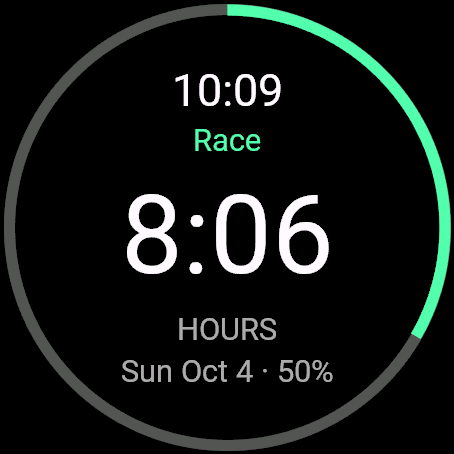
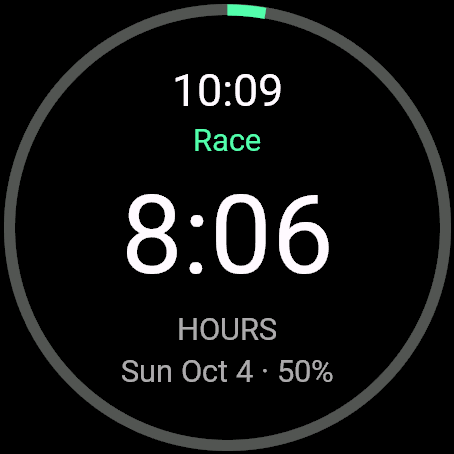
fix(DaysToGo): one ring scale, full only on the day
The ring was full at exactly 365 days, and a Pro timed event's ring
restarted near full when its last 24 hours began (share of 24 h after
the 5% of one day). Cap at 95% until the day; the last 24 hours use
the days' square-root scale. Pro listing shots and hero recaptured.

ROADMAP 13.1 (owner pick b).

Claude-Session: https://claude.ai/code/session_01VBnXC1zGyaFSzHFynsMi4H

Changed region(s): [[0.5859, 0.0, 1.0, 0.7401]]

diff --git a/DaysToGo/DESIGN.md b/DaysToGo/DESIGN.md
@@ -47,11 +47,11 @@ components:
 
 ## Direction
 
-**One number.** Black ground. The day count is the largest thing on the screen, white, in the largest system numeric font that fits the height left over. A thin ring around the bezel drains clockwise from the top as the date approaches (square root of the share of the next 365 days still to go, so the last days stay visible) and is full, in the accent, on the day. More than a year out it is the grey track only. As built it is also full at exactly 365 days (the square root of 365/365), and a Pro timed event restarts it near full when its last 24 hours begin (the hours state is the share of 24 hours, so 1 day at 5% jumps to about 100%); whether to change either is the owner's call (ROADMAP 13.1). State is never colour alone: the words TODAY, HOURS, DAYS SINCE carry it.
+**One number.** Black ground. The day count is the largest thing on the screen, white, in the largest system numeric font that fits the height left over. A thin ring around the bezel drains clockwise from the top as the date approaches (square root of the share of the next 365 days still to go, so the last days stay visible) and is full, in the accent, on the day. It stops at 95% (an 18 degree gap) until then, and more than a year out it is the grey track only, so a full accent ring can only mean the day itself. A Pro timed event's last 24 hours stay on the same scale (5% at 24 hours, a sliver at the end), so the ring never restarts (owner, 2026-10-05, ROADMAP 13.1). State is never colour alone: the words TODAY, HOURS, DAYS SINCE carry it.
 
 ## Timed events, to the minute (Pro, ADR-018)
 
-A Pro event with a time (Time of day, Minute) and, optionally, an Event time zone changes **no row, font or colour**. The last 24 hours before the event's instant still read as the hero `H:MM` over the caption HOURS (for example `7:51`, rounded up to the minute so it never says `0:00` while time is left; `24:00` at most, which is the widest string and was already in the screen-fit states), with the ring as the share of those 24 hours. What the zone moves is only **when** that state starts and **when** TODAY arrives; the day count before it is whole local calendar days and flips at the watch's own midnight, so the same event shows the same number of days on any wrist. On an Instinct the hero is the same text in white on black, beside the window as before. There is no zone label on the face: the zone is a setting, never a row (one number, nothing more).
+A Pro event with a time (Time of day, Minute) and, optionally, an Event time zone changes **no row, font or colour**. The last 24 hours before the event's instant still read as the hero `H:MM` over the caption HOURS (for example `7:51`, rounded up to the minute so it never says `0:00` while time is left; `24:00` at most, which is the widest string and was already in the screen-fit states), with the ring on the same square-root scale as the days (5% at 24 hours down to a sliver; ROADMAP 13.1). What the zone moves is only **when** that state starts and **when** TODAY arrives; the day count before it is whole local calendar days and flips at the watch's own midnight, so the same event shows the same number of days on any wrist. On an Instinct the hero is the same text in white on black, beside the window as before. There is no zone label on the face: the zone is a setting, never a row (one number, nothing more).
 
 ## Rows, top to bottom
 

diff --git a/ROADMAP.md b/ROADMAP.md
@@ -21,7 +21,7 @@ Do not keep open checkboxes anywhere else. Status 2026-10-05.
 - [x] 1.4 `[you]` DayArc: confirm the names "DayArc" / "DayArc Pro" after a store search and a trademark search. **Decided 2026-10-04:** "DayArc" and "DayArc Pro" confirmed.
 - [x] 1.18 `[you]` DayArc on the Instinct 3 Solar: the Pro morning and midday are the same picture as Simple (deliberate, ADR-017, because the label is kept over a second grid row). Keep, or give Pro something more there? Also the new 0.12 stroke weight and the one-row Pro grid on the Instinct are judgement calls (ADR-017 says how to revert each): say if you want either reverted after you see them. **Decided 2026-10-04: keep as built** (DayArc ADR-017).
 - [ ] 8.2 `[you]` (later) Approve a direction for a bolder Days To Go; then implement (8.1).
-- [ ] 13.1 `[you]` Days To Go ring scale (design critique 2026-10-05; Pro and Free). Two jumps as built: a full accent ring at exactly 365 days, empty at 366; and in Pro a timed event's ring goes from 5% (1 day) to about full when its last 24 hours start, then drains again. Options: (a) keep; (b) cap below full until the day and use one continuous scale in the last 24 h (about 1 h of code; the Pro listing shots with `8:06` show the 24 h ring and would need redoing, 10.5); (c) cap at 365 only (about 30 min). Agent recommends (b) together with 13.2.
+- [x] 13.1 `[you]` Days To Go ring scale (design critique 2026-10-05; Pro and Free). Two jumps as built: a full accent ring at exactly 365 days, empty at 366; and in Pro a timed event's ring goes from 5% (1 day) to about full when its last 24 hours start, then drains again. Options: (a) keep; (b) cap below full until the day and use one continuous scale in the last 24 h (about 1 h of code; the Pro listing shots with `8:06` show the 24 h ring and would need redoing, 10.5); (c) cap at 365 only (about 30 min). Agent recommends (b) together with 13.2. **Decided 2026-10-05: (b), built** (cap 95%, one scale; tests pass in the simulator; Pro listing shots 1, 3, 4, 5 and the hero recaptured). Ships with the next Days To Go upload of both; the new Pro images go up with it (10.5).
 - [ ] 13.2 `[you]` Days To Go Pro: the hours state `8:06 HOURS` reads as a second clock under the time (store hero shows `14:21 HOURS`). Option: `8h 06m`, no HOURS caption, inside DaysToGo ADR-018 (to the minute). Mockup first; about 2 h plus fit tests and new listing shots.
 - [ ] 13.3 `[you]` Days To Go: the bottom date is the event's date but reads as today's. Option: a prefix (`→ Nov 18` or a word like "on"). About 1 h; a word needs 15 languages (translations are yours).
 - [ ] 13.4 `[you]` Days To Go Pro: footer `50%` / `6.4K` has no icon, so it reads as nothing. Option: a small battery or steps glyph from primitives. About 2 h; a look change.

diff --git a/DaysToGo/CLAUDE.md b/DaysToGo/CLAUDE.md
@@ -55,6 +55,6 @@ Same as HeroFace ([`../HeroFace/CLAUDE.md`](../HeroFace/CLAUDE.md)), which this 
 - New layout or string → run the screen-fit test for each screen size and update `docs/compatibility.md`.
 - User-facing claims live in the listing and `../site/src/apps/days-to-go/`; change both together, never change a published URL.
 - Every store publication gets a `CHANGELOG.md` entry and a What's New block in `listing/paste.md`.
-- Test count appears in `README.md` and here: **Pro 66, Free 55** on round and rectangular products (50 shared + 15 Pro-only / + 4 Free-only, + the Instinct layout test), **Pro 64, Free 53** on an Instinct (the colour-only accent tests drop, a mono one joins), simulator tests PASSED 2026-10-04 (fr965, fr255s, epix2, venusq2, fr55, fenix5s, instincte40mm, instinct3solar45mm, instinct2, instinct2s; no wrist); update both.
+- Test count appears in `README.md` and here: **Pro 67, Free 56** on round and rectangular products (51 shared + 15 Pro-only / + 4 Free-only, + the Instinct layout test), **Pro 65, Free 54** on an Instinct (the colour-only accent tests drop, a mono one joins), simulator tests PASSED 2026-10-04 (2026-10-05: fr965 both jungles and instincte40mm Pro after the ring fix, ROADMAP 13.1) (fr965, fr255s, epix2, venusq2, fr55, fenix5s, instincte40mm, instinct3solar45mm, instinct2, instinct2s; no wrist); update both.
 - **Instinct family (ADR-015, accepted 2026-10-04; 7 products, 1-bit, a round window top right):** `DaysToGoPalette` is two classes, `(:color)` and `(:mono)`, chosen by the jungles (`base.excludeAnnotations = <tier>;mono`, and per Instinct product `<product>.excludeAnnotations = <tier>;color` — a per-product line **replaces** the base list, so restate the tier's own). The Accent setting is its own file (`resources-accent-<tier>/settings/accent.xml`, from `tools/gen_settings.py`) and the Instinct `resourcePath` leaves that folder out. The visible area is a circle about 98 px in radius (`DaysToGoLayout.VISIBLE_RADIUS_PX`), not the whole square: **screenshot the simulator for every layout change** (`docs/development.md` "Screenshots").
 - A new language: its line in **both** manifests and **both** jungles; its folder must not define `AppName` (`python3 tools/check_strings.py`).

diff --git a/DaysToGo/docs/spec.md b/DaysToGo/docs/spec.md
@@ -83,8 +83,8 @@ The owner chose paid ($1.99) on 2026-09-26. The research adds a risk the owner s
 
 | State | When | Hero | Caption | Ring |
 |---|---|---|---|---|
-| Upcoming | days > 0 | the day count, or whole weeks | DAY / DAYS / WEEKS (+ "+ n DAYS" in weeks mode) | square root of the share of the next 365 days still to go (1 day = 5% of the ring, 30 days = 29%); more than 365 days away: grey track only; exactly 365 days is a full ring (ROADMAP 13.1) |
-| Hours (**Pro only**: Free has no timed events) | timed event, under 24 h to its instant (its time in its own zone, ADR-018) | `H:MM`, to the minute | HOURS | share of the last 24 h still to go (so it starts near full after the 5% of 1 day: ROADMAP 13.1) |
+| Upcoming | days > 0 | the day count, or whole weeks | DAY / DAYS / WEEKS (+ "+ n DAYS" in weeks mode) | square root of the share of the next 365 days still to go (1 day = 5% of the ring, 30 days = 29%); capped at 95% so only the day fills it; more than 365 days away: grey track only (ROADMAP 13.1) |
+| Hours (**Pro only**: Free has no timed events) | timed event, under 24 h to its instant (its time in its own zone, ADR-018) | `H:MM`, to the minute | HOURS | the same scale as the days, from 5% at 24 h to a sliver (ROADMAP 13.1) |
 | Today | the event's day (all-day) or its instant has arrived (then until the end of its last local day) | TODAY | | full, accent |
 | Past | after the event | days since | DAY SINCE / DAYS SINCE | empty track, muted |
 | Invalid | a saved date that does not exist (30 Feb 2026) | SET A DATE | | none |

diff --git a/DaysToGo/CHANGELOG.md b/DaysToGo/CHANGELOG.md
@@ -3,6 +3,10 @@
 One entry per Connect IQ Store publication, newest first. The store's "What's New"
 text for each version is in [`listing/paste.md`](listing/paste.md).
 
+## Unreleased (next upload of both)
+
+- **The ring has one scale (owner, 2026-10-05, ROADMAP 13.1; simulator only).** It stops at 95% until the day itself, so a full ring means only the day (it was full at exactly 365 days). In Pro, a timed event's last 24 hours stay on the days' square-root scale (5% at 24 hours, a sliver at the end) instead of restarting near full. Pro listing shots 1, 3, 4, 5 and the hero were recaptured. Tests: Pro 67, Free 56 (`hoursRingContinuesTheDays` new).
+
 ## Free 1.0.0 and Pro 1.1.0 — uploaded 2026-10-04 by the owner, in Garmin review
 
 Built 2026-10-01 against the Free + Pro plan; the owner approved the ladder 2026-10-04 (`docs/decisions.md` ADR-014 (Free + Pro ladder), Active) and uploaded both that day. Simulator-only evidence. Approval dates are recorded here when Garmin reports them.

diff --git a/DaysToGo/README.md b/DaysToGo/README.md
@@ -22,8 +22,8 @@ monkeyc -d fr965 -f monkey.jungle -o bin/DaysToGo.prg -y $KEY -w --typecheck 3  
 monkeyc -d fr965 -f monkey.free.jungle -o bin/DaysToGoFree.prg -y $KEY -w --typecheck 3   # Free
 monkeydo bin/DaysToGo.prg fr965                 # with the simulator running
 
-tools/run_tests.sh fr965                        # Pro: 66 tests, 64 on an Instinct (PASSED in the simulator 2026-10-04); prints PASSED (…)
-tools/run_tests.sh fr965 monkey.free.jungle     # Free: 55 tests, 53 on an Instinct (PASSED in the simulator 2026-10-04)
+tools/run_tests.sh fr965                        # Pro: 67 tests, 65 on an Instinct (PASSED in the simulator 2026-10-05); prints PASSED (…)
+tools/run_tests.sh fr965 monkey.free.jungle     # Free: 56 tests, 54 on an Instinct (PASSED in the simulator 2026-10-05)
 tools/run_tests.sh fr55 monkey.jungle everyStateFitsThisDisplay
 tools/compile_sweep.sh                          # compile every product, both jungles
 
